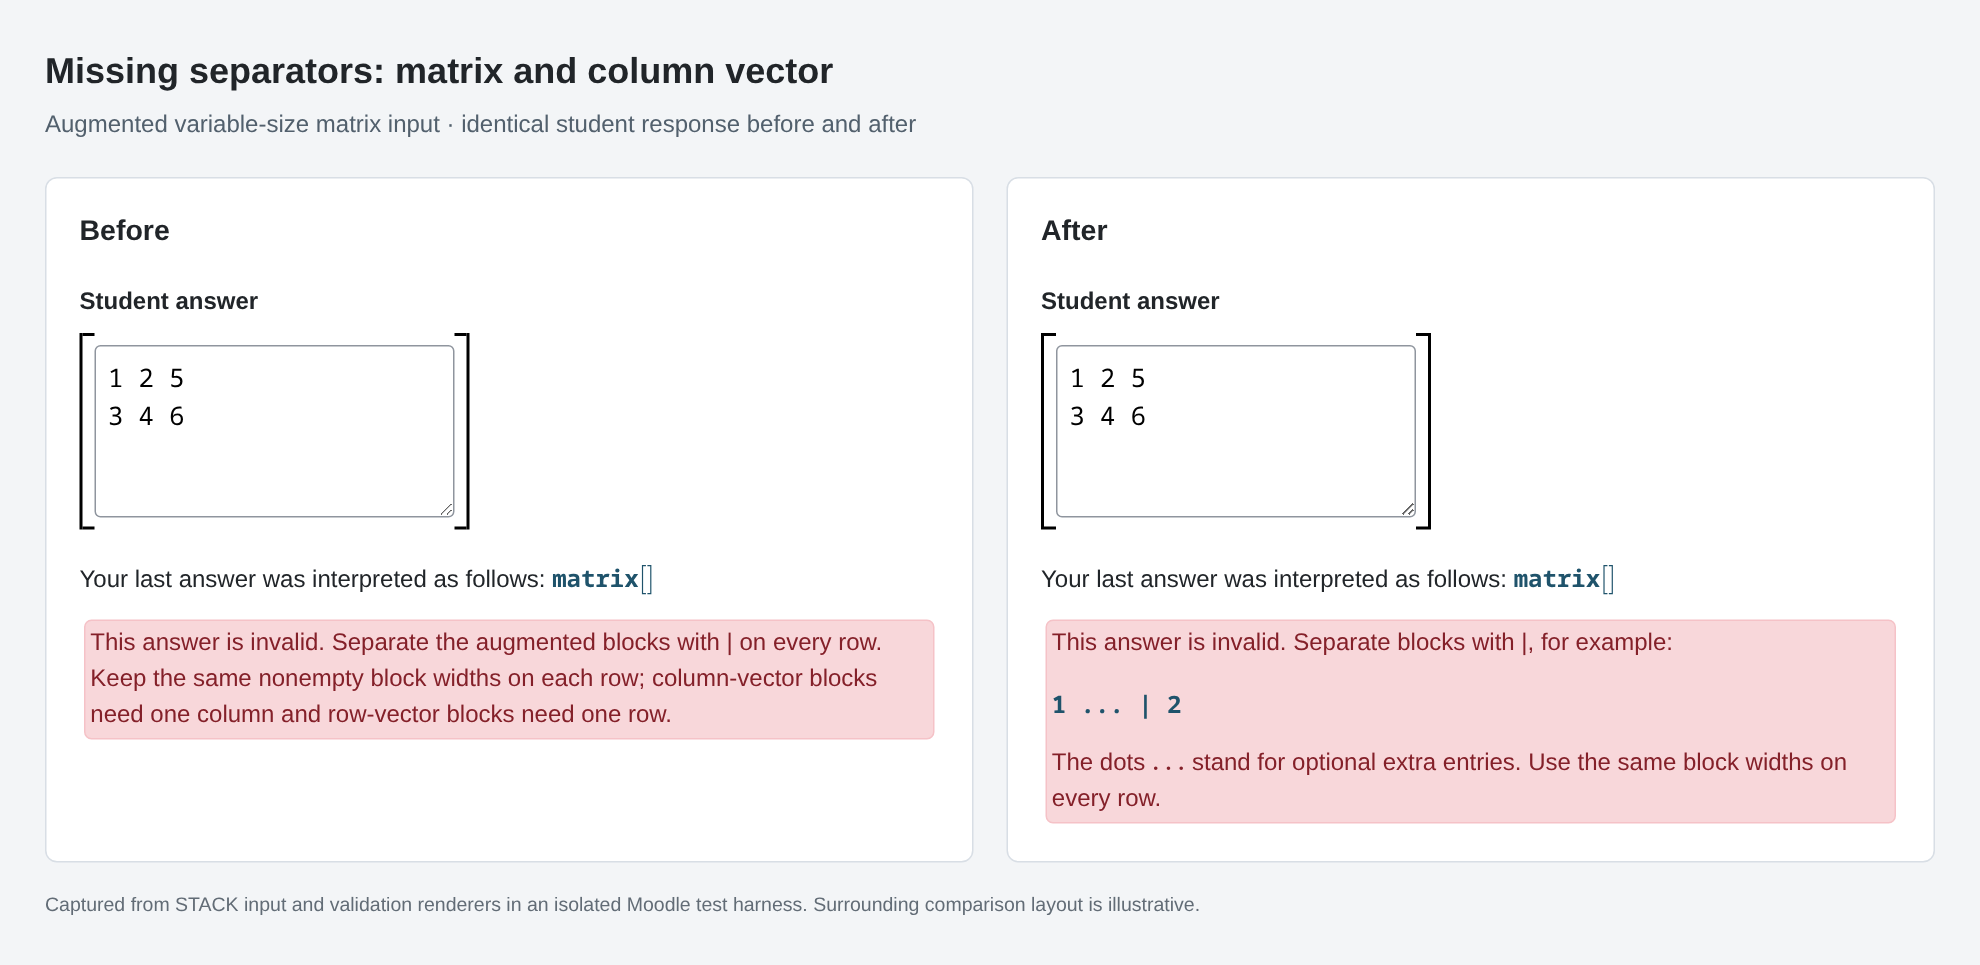
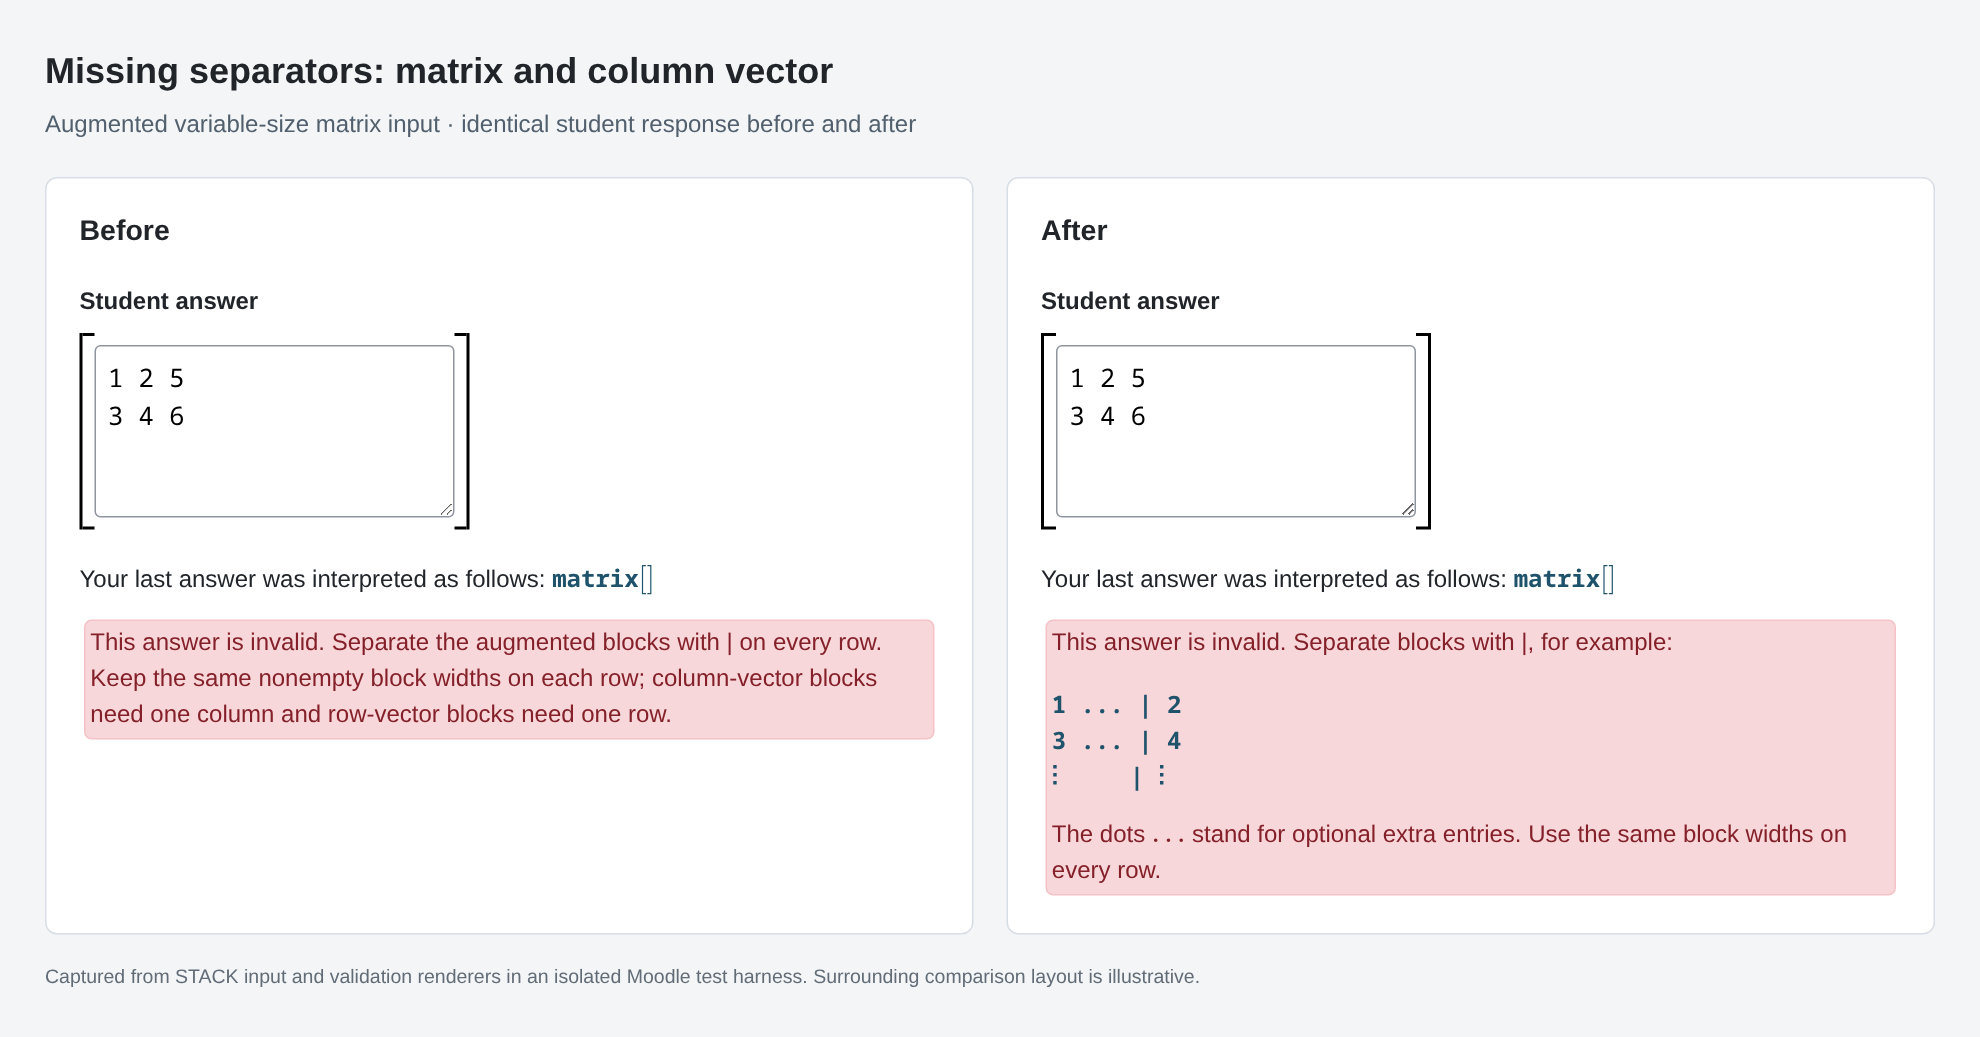
Show multi-line augmented matrix input examples

diff --git a/tests/input_varmatrix_test.php b/tests/input_varmatrix_test.php
@@ -672,7 +672,7 @@ final class input_varmatrix_test extends qtype_stack_testcase {
      * @dataProvider augmented_structure_feedback_provider
      * @param string $model Instantiated teacher answer.
      * @param string $raw Malformed student response.
-     * @param string $pattern Expected example row.
+     * @param string $pattern Expected example.
      * @param bool $onerow Whether the entire response must use one row.
      */
     public function test_augmented_structure_feedback($model, $raw, $pattern, $onerow): void {
@@ -710,18 +710,18 @@ final class input_varmatrix_test extends qtype_stack_testcase {
     public static function augmented_structure_feedback_provider(): array {
         $model = 'aug_matrix(matrix([9876,2],[3,4]),c(5,6))';
         return [
-            'missing separator' => [$model, "1 2 3\n4 5 6", '1 ... | 2', false],
+            'missing separator' => [$model, "1 2 3\n4 5 6", "1 ... | 2\n3 ... | 4\n⋮     | ⋮", false],
             'different teacher dimensions' => [
-                'aug_matrix(matrix([9876],[2],[3]),c(4,5,6))', '1 2 3', '1 ... | 2', false,
+                'aug_matrix(matrix([9876],[2],[3]),c(4,5,6))', '1 2 3', "1 ... | 2\n3 ... | 4\n⋮     | ⋮", false,
             ],
-            'only column vectors' => ['aug_matrix(c(9876,2),c(3,4))', '1 2', '1 | 2', false],
-            'inconsistent widths' => [$model, "1 2 | 3\n4 | 5", '1 ... | 2', false],
-            'empty block' => [$model, '1 2 |', '1 ... | 2', false],
-            'wide column vector' => [$model, '1 | 2 3', '1 ... | 2', false],
-            'extra separator' => [$model, '1 | 2 | 3', '1 ... | 2', false],
+            'only column vectors' => ['aug_matrix(c(9876,2),c(3,4))', '1 2', "1 | 2\n3 | 4\n⋮ | ⋮", false],
+            'inconsistent widths' => [$model, "1 2 | 3\n4 | 5", "1 ... | 2\n3 ... | 4\n⋮     | ⋮", false],
+            'empty block' => [$model, '1 2 |', "1 ... | 2\n3 ... | 4\n⋮     | ⋮", false],
+            'wide column vector' => [$model, '1 | 2 3', "1 ... | 2\n3 ... | 4\n⋮     | ⋮", false],
+            'extra separator' => [$model, '1 | 2 | 3', "1 ... | 2\n3 ... | 4\n⋮     | ⋮", false],
             'matrix blocks' => [
                 'aug_matrix(matrix([9876,2]),matrix([3]),matrix([4,5,6]))',
-                '1 | 2', '1 ... | 2 ... | 3 ...', false,
+                '1 | 2', "1 ... | 2 ... | 3 ...\n4 ... | 5 ... | 6 ...\n⋮     | ⋮     | ⋮", false,
             ],
             'row vector with multiple rows' => [
                 'aug_matrix(r(9876,2),r(3))', "1 | 2\n3 | 4", '1 ... | 2 ...', true,

diff --git a/stack/input/varmatrix/varmatrix.class.php b/stack/input/varmatrix/varmatrix.class.php
@@ -408,14 +408,32 @@ class stack_varmatrix_input extends stack_input {
             ) {
                 $valid = false;
                 $example = [];
+                $onerow = in_array('r', $this->blocktypes);
+                $blockcount = count($this->blocktypes);
+                $rowcount = $onerow ? 1 : 2;
+                $widths = [];
+                $continuation = [];
                 foreach ($this->blocktypes as $i => $type) {
-                    $example[] = ($i + 1) . ($type === 'c' ? '' : ' ...');
+                    $width = strlen((string)($i + 1 + ($rowcount - 1) * $blockcount)) + ($type === 'c' ? 0 : 4);
+                    $widths[] = $width;
+                    $continuation[] = '⋮' . str_repeat(' ', $width - 1);
                 }
-                $errors[] = stack_string('varmatrixaugmentedstructure', implode(' | ', $example));
+                for ($row = 0; $row < $rowcount; $row++) {
+                    $blocks = [];
+                    foreach ($this->blocktypes as $i => $type) {
+                        $entry = ($row * $blockcount + $i + 1) . ($type === 'c' ? '' : ' ...');
+                        $blocks[] = str_pad($entry, $widths[$i]);
+                    }
+                    $example[] = rtrim(implode(' | ', $blocks));
+                }
+                if (!$onerow) {
+                    $example[] = rtrim(implode(' | ', $continuation));
+                }
+                $errors[] = stack_string('varmatrixaugmentedstructure', implode("\n", $example));
                 if (in_array('matrix', $this->blocktypes) || in_array('r', $this->blocktypes)) {
                     $errors[] = stack_string('varmatrixaugmentedellipsis');
                 }
-                $errors[] = stack_string(in_array('r', $this->blocktypes) ?
+                $errors[] = stack_string($onerow ?
                     'varmatrixaugmentedonerow' : 'varmatrixaugmentedrows');
         }
         [$secrules, $filterstoapply] = $this->validate_contents_filters($basesecurity);

diff --git a/doc/en/Authoring/Inputs/Matrix_input.md b/doc/en/Authoring/Inputs/Matrix_input.md
@@ -70,7 +70,15 @@ Rows and matrix-block widths are student-selected; the model does not fix their 
 does fix the number and constructor types of blocks. A `c(...)` block must remain one column and an
 `r(...)` block must remain one row. Matrix blocks can have any positive number of columns. Every row
 must have the same nonempty block widths. Missing or inconsistent separators are validation errors.
-For a malformed block structure, validation shows a short example row, such as `1 ... | 2`.
+For a malformed block structure, validation shows a short multi-line example:
+
+```text
+1 ... | 2
+3 ... | 4
+⋮     | ⋮
+```
+
+The vertical dots leave the row count open. Models containing a row-vector block show only one row.
 The dots stand for optional extra entries in a matrix or row-vector block; a column-vector block
 contains just one entry. The example uses neither the teacher's entries nor matrix-block dimensions.
 Feedback reminds students to keep block widths consistent between rows, or use only one row when
